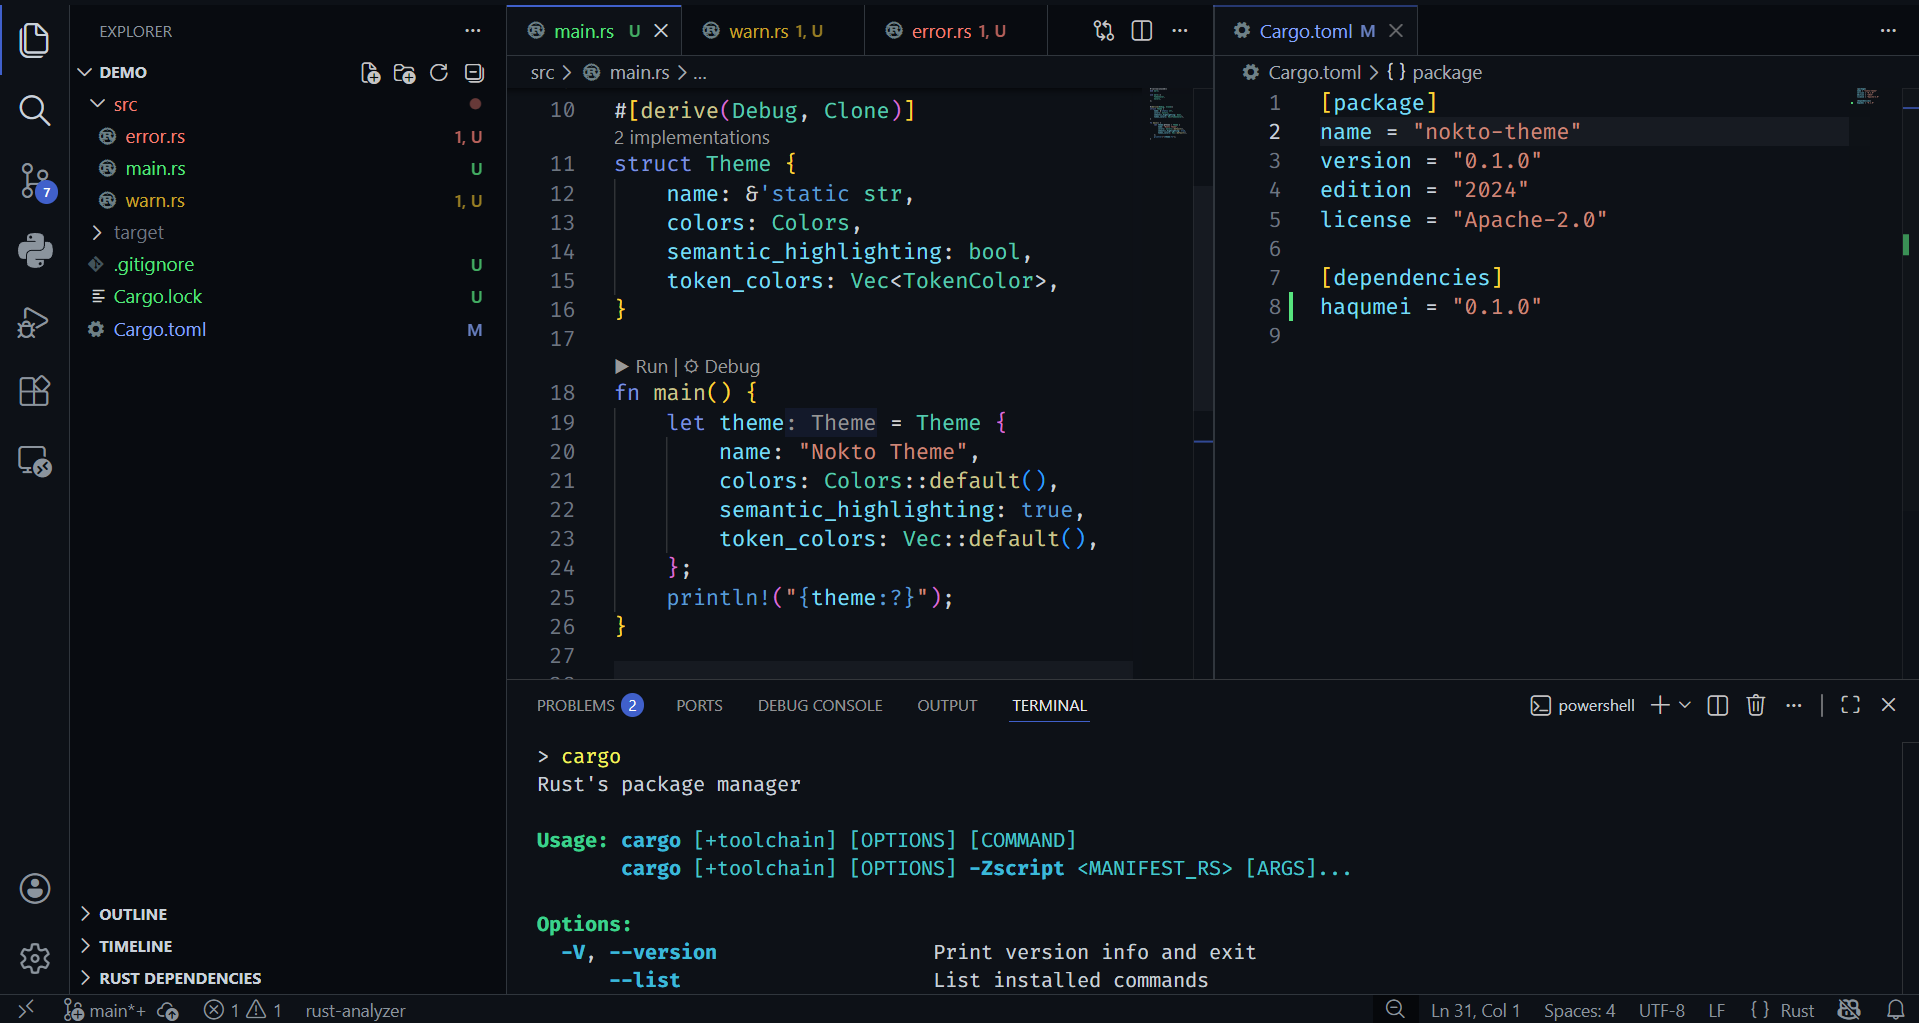
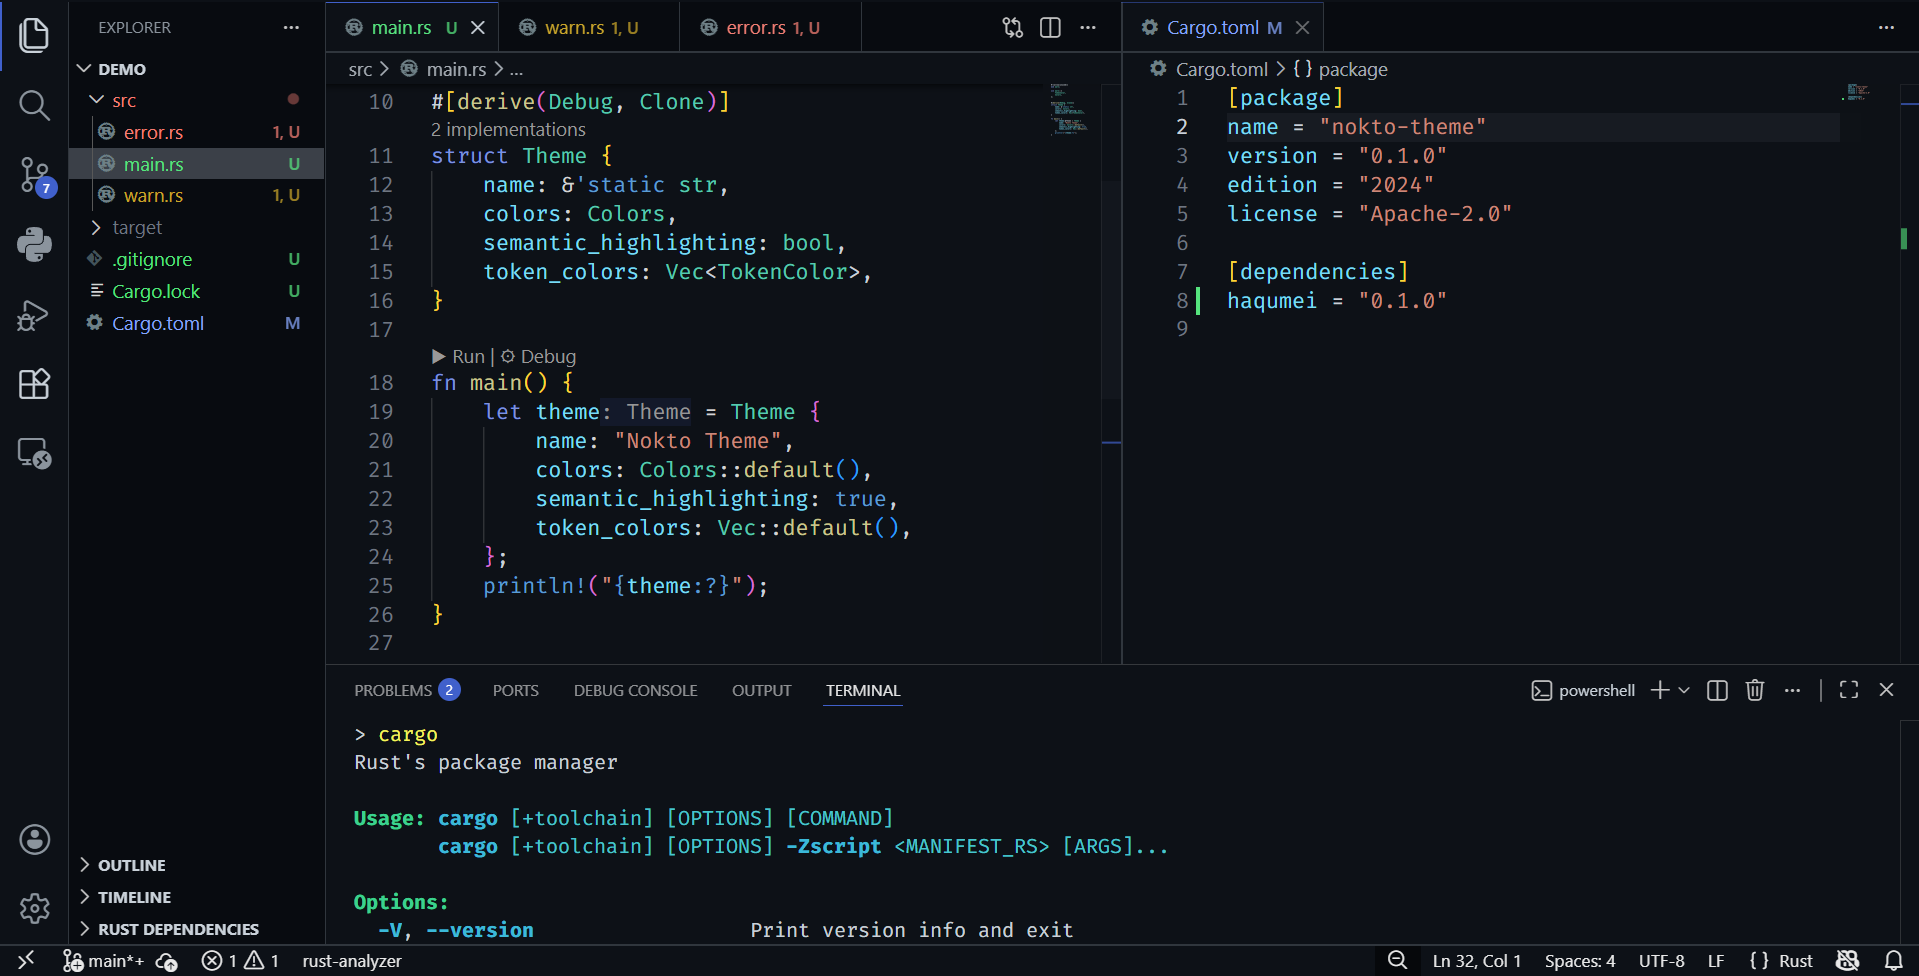
style: improve UI contrast and update preview image

diff --git a/src/main.rs b/src/main.rs
@@ -284,6 +284,8 @@ const BRIGHT_ACCENT_TEXT: &str = "#85a5ff";
 const DIFF_GREEN: &str = "#48e477";
 const DIFF_RED: &str = "#f85149";
 const SOFT_DARK_BG: &str = "#080b10";
+const SOFT_WHITE: &str = "#e9e9e9";
+const DIM_WHITE: &str = "#b1bac4";
 
 #[rustfmt::skip]
 fn main() -> Result<()> {
@@ -383,7 +385,7 @@ fn main() -> Result<()> {
     add_alpha(&mut colors, "editor.wordHighlightBackground", &p.neutral.subtle, 0.5);
 
     // Search highlights (Find / Replace)
-    add(&mut colors, "editor.findMatchBackground", &p.attention.emphasis); 
+    add(&mut colors, "editor.findMatchBackground", &p.attention.emphasis);
     add_alpha(&mut colors, "editor.findMatchHighlightBackground", &p.attention.fg, 0.3);
 
 
@@ -417,10 +419,10 @@ fn main() -> Result<()> {
 
     // Workbench: Misc
     add(&mut colors, "statusBar.background", &p.canvas.default);
-    add(&mut colors, "statusBar.foreground", &p.fg.muted);
+    add(&mut colors, "statusBar.foreground", SOFT_WHITE);
     add(&mut colors, "statusBar.border", &p.border.default);
 
-    add(&mut colors, "titleBar.activeForeground", &p.fg.muted);
+    add(&mut colors, "titleBar.activeForeground", DIM_WHITE);
     add(&mut colors, "titleBar.activeBackground", &p.canvas.default);
     add(&mut colors, "panelTitle.activeBorder", CUSTOM_ACCENT);
     add(&mut colors, "notificationsInfoIcon.foreground", BRIGHT_ACCENT_TEXT);
@@ -437,7 +439,9 @@ fn main() -> Result<()> {
     add(&mut colors, "terminal.ansiWhite", &p.ansi.white);
 
     add(&mut colors, "statusBar.debuggingBackground", CUSTOM_ACCENT);
-    add(&mut colors, "statusBar.debuggingForeground", "#e9e9e9");
+    add(&mut colors, "statusBar.debuggingForeground", SOFT_WHITE);
+    add(&mut colors, "statusBarItem.remoteBackground", CUSTOM_ACCENT);
+    add(&mut colors, "statusBarItem.remoteForeground", SOFT_WHITE);
 
 
     let base_theme: BaseThemeTokens = serde_json::from_str(include_str!("../data/modern_dark_token_color.json"))?;
